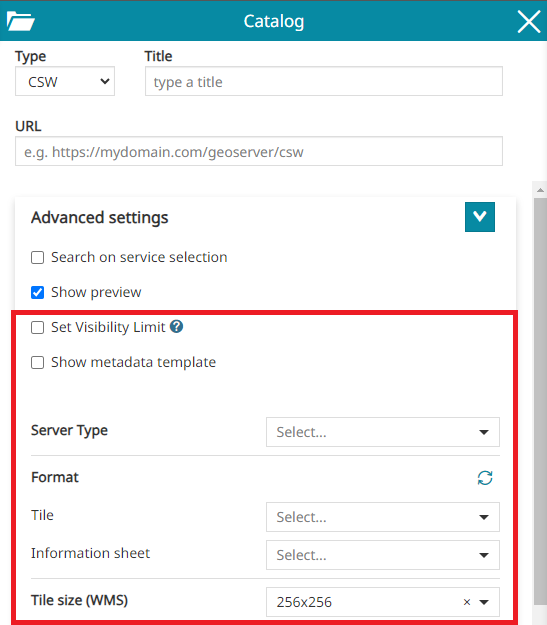
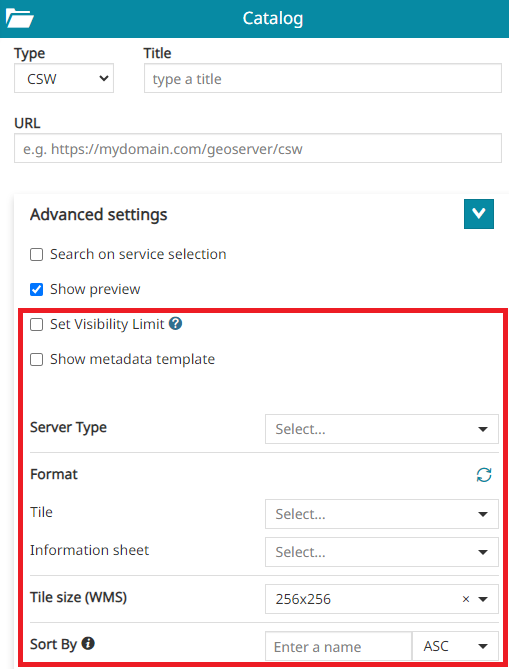
add_10069

diff --git a/docs/user-guide/catalog.md b/docs/user-guide/catalog.md
@@ -99,6 +99,8 @@ In **general settings of**  CSW service the user can specify the title to assign
 
 * *Tile size (WMS)*: it represents tile size (width and height) to be used for tiles of all layers added to the map from the catalog source (`256x256` or `512x512`). For layers already loaded on the map, it is possible to change the tile size through the [Layer Settings](https://mapstore.readthedocs.io/en/latest/user-guide/layer-settings/#display) tool as usual.
 
+* *Sorty By*: to retrieve the catalog result in sorted order, user can add the `propertyName` of the attributes that the user wants to filter and select the sort order (`ASC` or `DESC`).
+
 * *Set Visibility Limit*: if checked and scale limits present in the WMS Capabilities (eg. MinScaleDenominator and/or MaxScaleDenominator), these will be automatically applied to the layer settings when a layer is added to the map from this source.
 
 * *Show metadata template*: this can be enabled when the user wants to insert in the layer description a text with metadata information
